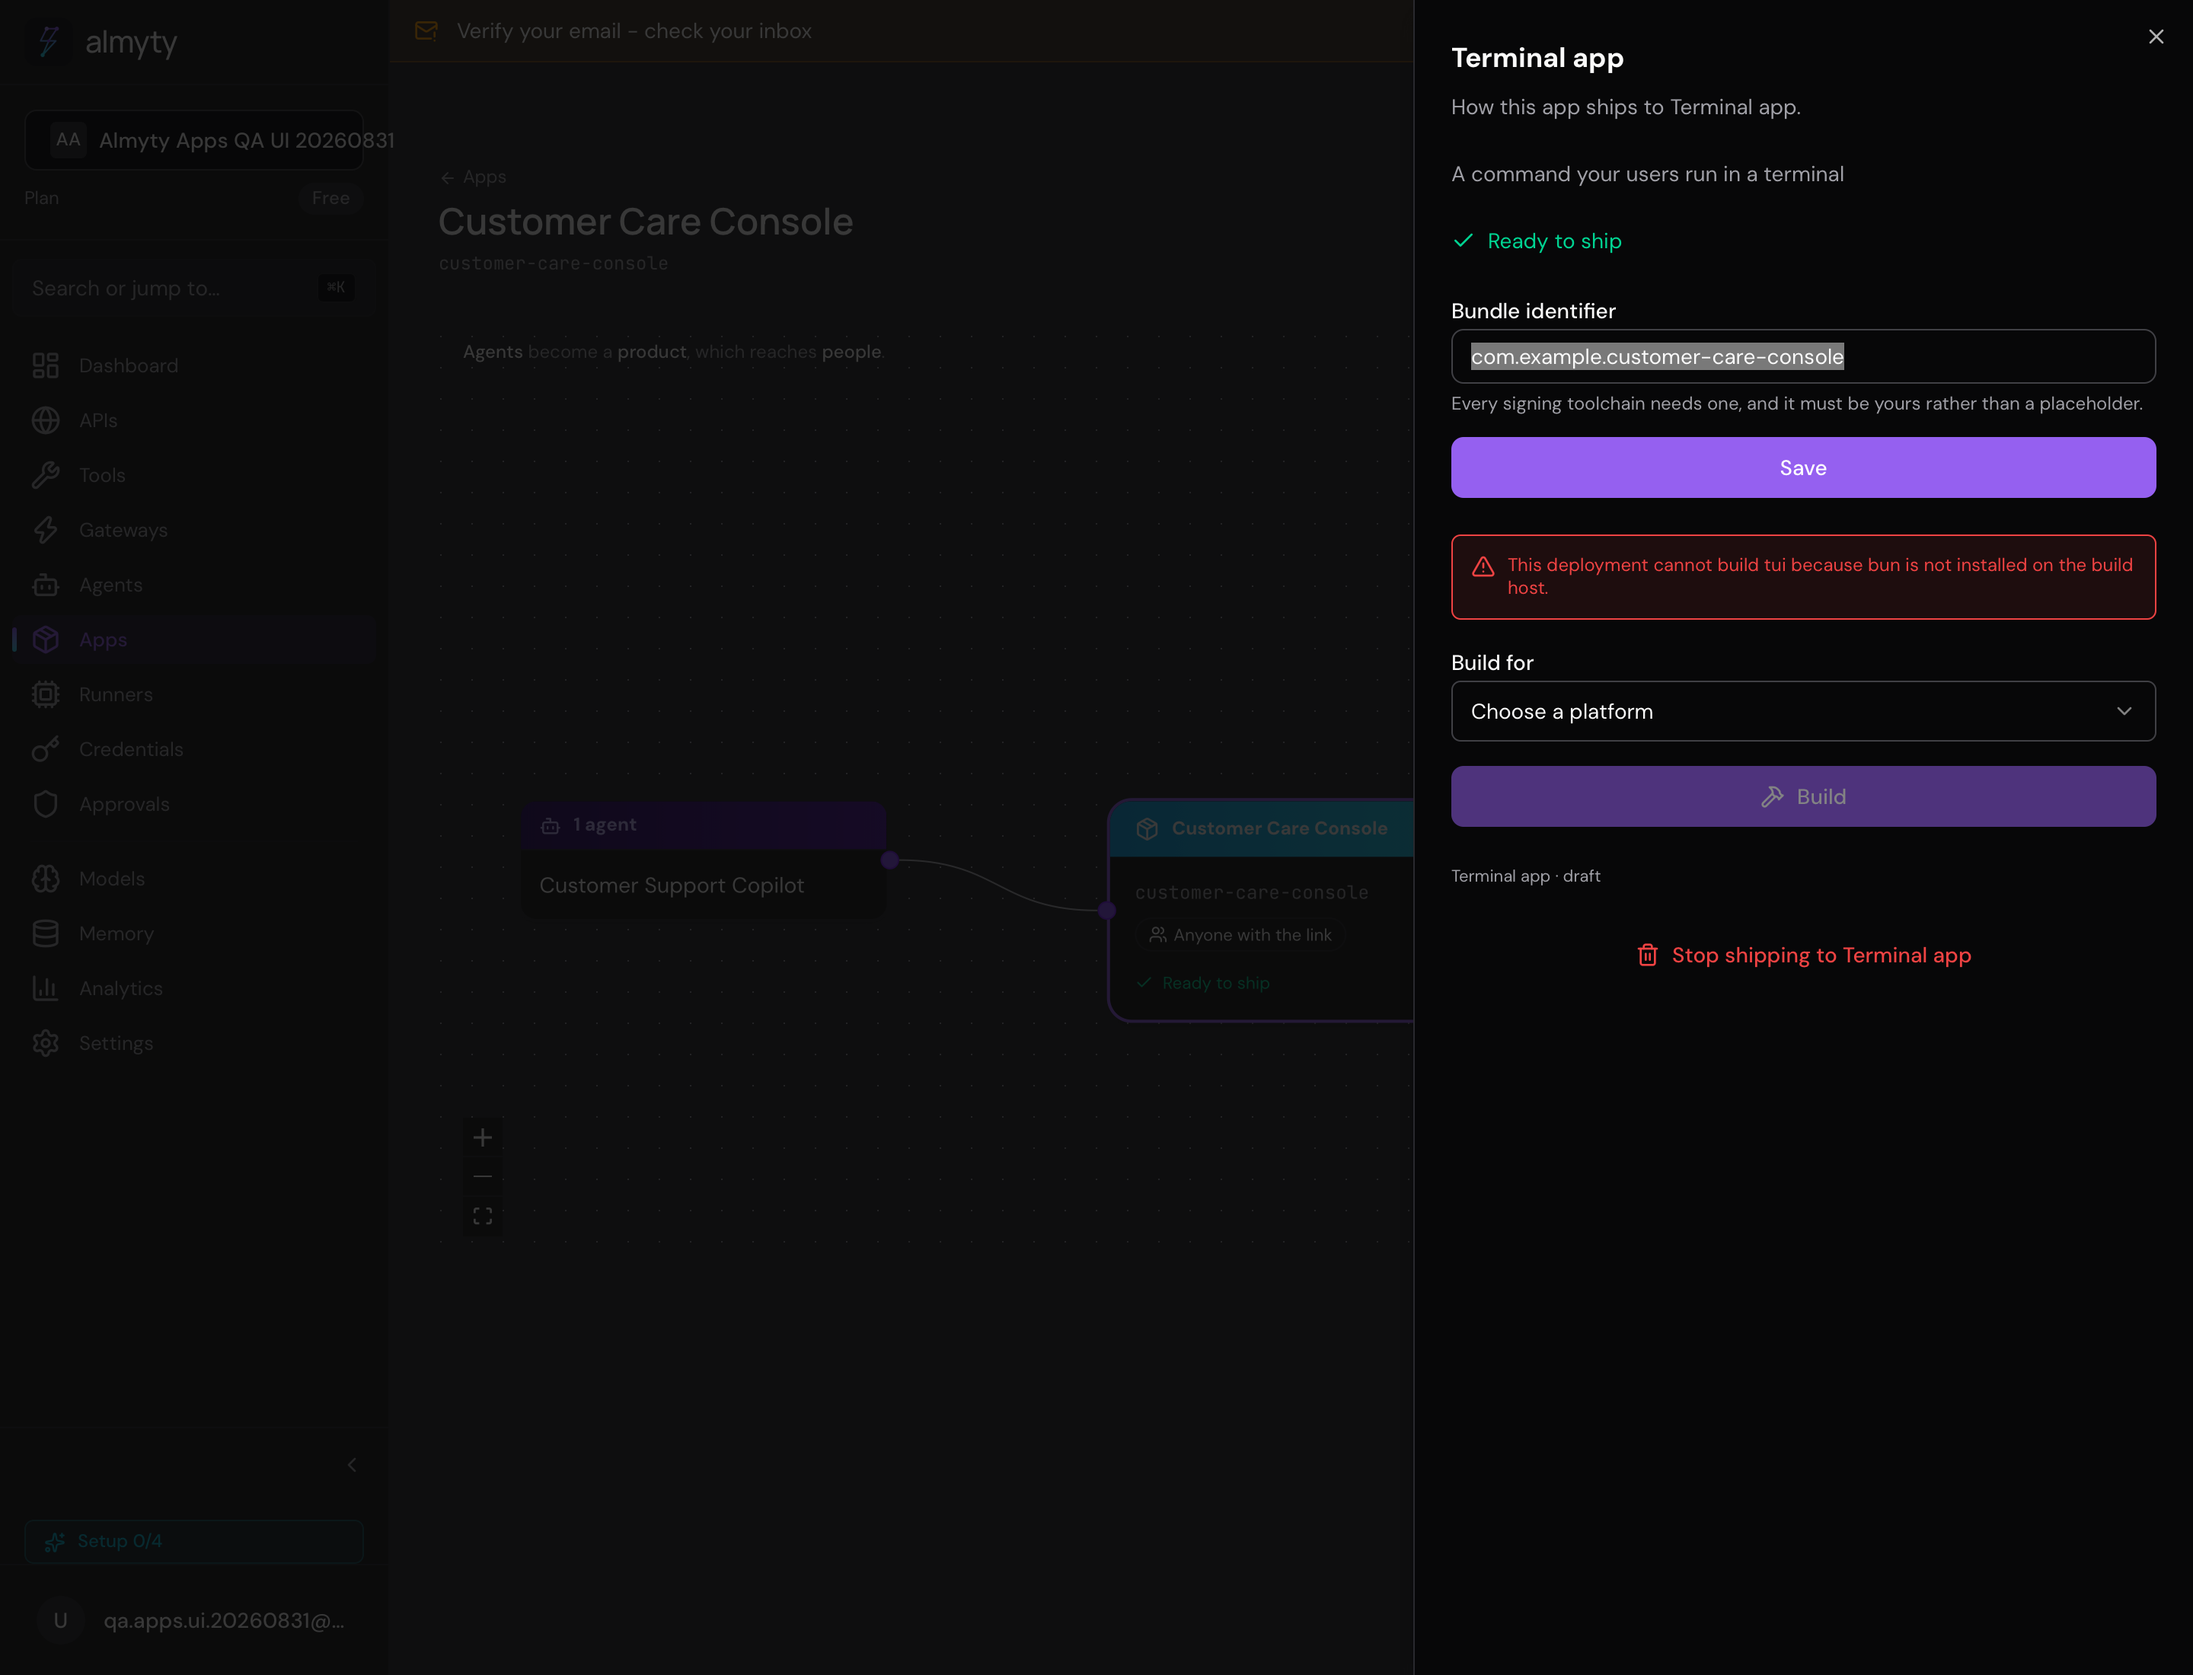
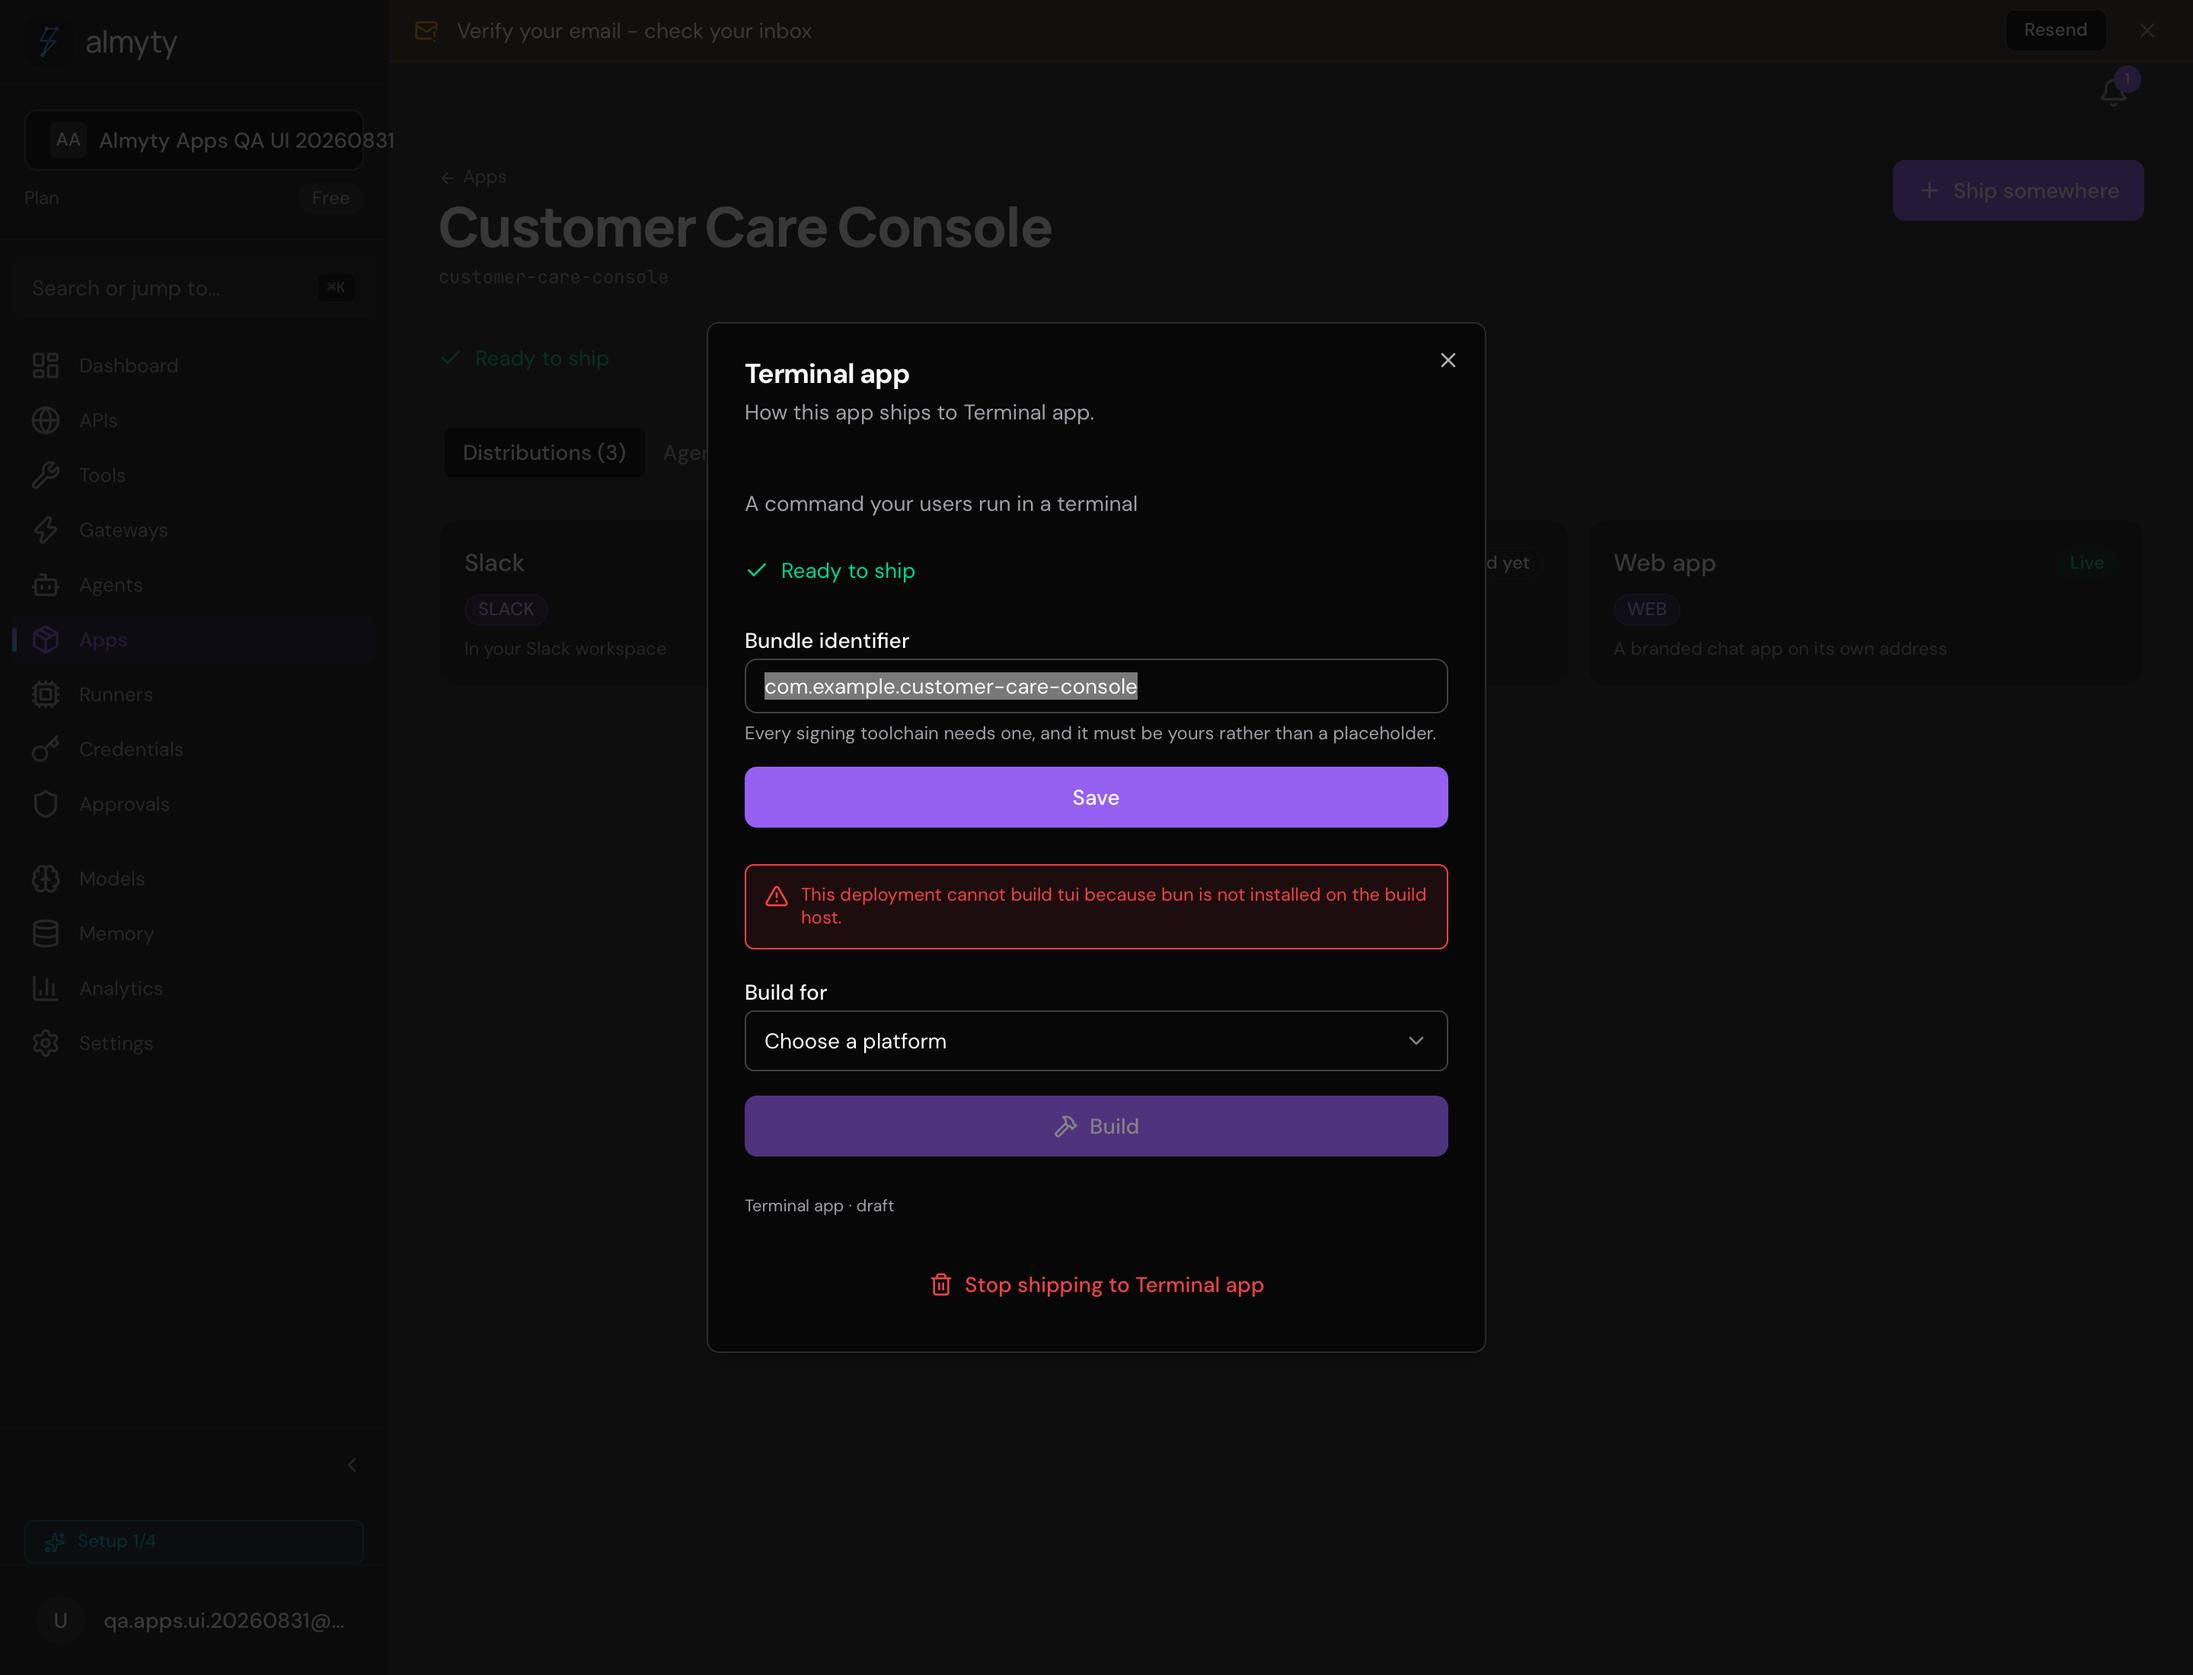
document rebuilt /apps detail page from staging QA
The canvas is gone. Screenshots and the agent-factory writeup now show
the header, tabs, cards, and dialogs, including Slack credentials
going live instead of failing silently.

diff --git a/docs/qa-reports/2026-08-31-agent-factory-ux.md b/docs/qa-reports/2026-08-31-agent-factory-ux.md
@@ -1,0 +1,53 @@
+# Agent factory UX restage QA — 2026-08-31
+
+Follow-up to `2026-08-31-agent-factory.md` after #530/#532 replaced the ReactFlow canvas with a header + Tabs + Cards + Dialogs detail page. Driven with VibeSurfer against `app.staging.almyty.com` as `qa.apps.ui.20260831@almyty.com` (org Almyty Apps QA UI 20260831, app `Customer Care Console`). Staging frontend was rolled to the already-pushed `almyty/frontend:staging` image from the in-progress #532 image build; the matching API image had not finished building, so Slack publish hit the API that was already on the cluster.
+
+## Result
+
+| Area | Result | Evidence |
+|---|---|---|
+| Apps list | Pass | One product card, "Anyone with the link", New app. |
+| App detail | Pass | Header + slug + Ship somewhere. Tabs Distributions (3) / Agents (1) / Settings. No canvas. |
+| Distribution cards | Pass | ProtocolBadge per medium (SLACK / TERMINAL / WEB). Status Badge Live (success) or Not shipped yet (outline). No emoji. |
+| Edit dialog | Pass | Clicking a card opens a centered Dialog, not a drawer. |
+| P1 Slack credentials | Pass | Dialog has Bot token + Signing secret. Save credentials, then Publish → card and dialog both show Live, button flips to Take it down. |
+| Settings tab | Pass | Branding, who can use it, cost ceiling per run, requests per user/IP. |
+| Empty state | Pass | Fresh app shows EmptyState icon + "Not shipping anywhere yet" + Ship somewhere, plus the refusals banner (needs agent, cost cap, rate limits). |
+| Terminal build | Correct refusal | "This deployment cannot build tui because bun is not installed on the build host." Build stays available to pick a platform; the host cannot compile. |
+| Hosted-chat hostname | Still blocked | Not re-tested; wildcard still routes `*.almyty.app` to dashboard sign-in. |
+| Agent Activate (P2) | Still open | Agent-detail actions-menu, out of /apps scope. |
+
+## Findings this pass
+
+### Closed — P1 channel credentials
+
+The Slack dialog now has Platform credentials (Bot token, Signing secret). Saving dummy values and publishing made the distribution Live. The previous silent fail is gone.
+
+### P2 — operator copy still says `tui`
+
+The Terminal dialog refusal reads `cannot build tui` rather than "Terminal app". The list/cards use labels; this one sentence still prints the raw target.
+
+### P2 — Slack dialog said Ready to ship with empty credential fields
+
+Before anything was typed, the Slack dialog showed a green Ready to ship. The stored configuration had no credentials. The check is not reflecting missing required credentials in the form. Publishing after filling them worked; the pre-fill status was wrong.
+
+### Note — #532 API image still building
+
+Frontend was rolled manually from the already-pushed tag so this pass could run. The staging-api pods were still the 09:42 image. Slack publish succeeded against that API once the new frontend sent credentials. When the #532 API image lands, a second frontend+API restart is expected.
+
+## Screenshots
+
+Dropped into `docs-site/public/screenshots/`:
+
+| File | Shows |
+|---|---|
+| `apps-list.png` | Apps list |
+| `apps-canvas.png` / `apps-detail.png` | Detail page, Distributions tab, Slack+Web Live |
+| `apps-empty.png` | Fresh app empty state |
+| `apps-agents.png` | Agents tab |
+| `apps-settings.png` | Settings tab with cost cap + rate limits |
+| `apps-slack-credentials.png` | Slack dialog credential fields |
+| `apps-slack-live.png` | Slack published, Take it down |
+| `apps-build-capabilities.png` | Terminal bun refusal |
+
+`docs/agent-factory.md` canvas paragraph replaced with the detail-page description.

diff --git a/docs/agent-factory.md b/docs/agent-factory.md
@@ -27,9 +27,13 @@ That is the part nobody else ships, so it is the part this subsystem is built ar
 
 The separation is load-bearing. One agent appears in an internal app and a customer-facing one at the same time, under different names, different auth and different limits, without being duplicated.
 
-The canvas makes that relationship explicit: agents feed one product, and the product fans out to each distribution independently.
+An app is a normal detail page: a header, three tabs (Distributions, Agents, Settings), and a card per place the product ships. Each card carries a ProtocolBadge for the medium and a status badge (Live, Building, Not shipped yet). Clicking a card opens a centered dialog — not a canvas, not a drawer.
 
-![An app canvas connecting one agent to web, terminal, and Slack distributions](../docs-site/public/screenshots/apps-canvas.png)
+![An app detail page with Slack, Terminal, and Web distributions as cards](../docs-site/public/screenshots/apps-canvas.png)
+
+A product with no distributions yet shows an EmptyState on the Distributions tab, with the same Ship somewhere action as the header.
+
+![Empty app detail: not shipping anywhere yet](../docs-site/public/screenshots/apps-empty.png)
 
 Entities: `agent-app.entity.ts`, `agent-app-distribution.entity.ts`, `app-build.entity.ts`.
 
@@ -56,6 +60,12 @@ Publishing is idempotent: doing it twice re-syncs the existing gateway rather th
 
 Publishing refuses two things that would otherwise produce a surface that is live and useless. A platform whose credentials are absent (`REQUIRED_CREDENTIALS`, read off what each adapter actually uses, never invented) and a workflow agent behind a chat surface, which the runtime turns away at the first message with "not in autonomous mode".
 
+Channel distributions take those credentials on the distribution itself — Bot token and Signing secret for Slack — rather than sending the operator to Gateways. Publishing with them filled goes live.
+
+![Slack distribution dialog with platform credential fields](../docs-site/public/screenshots/apps-slack-credentials.png)
+
+![Slack published and live, with Take it down instead of a silent fail](../docs-site/public/screenshots/apps-slack-live.png)
+
 For the hosted chat, publish writes the `hostedChat` block it is looked up by. Without it a published web app is a gateway `findBySlug` cannot see, which is what happened before.
 
 ![The web distribution after a successful publish](../docs-site/public/screenshots/apps-web-published.png)
@@ -77,6 +87,10 @@ Unpublishing **deactivates** the gateway rather than deleting it. Republishing k
 An unset auth mode reads as open, not as unset. The permissive reading of missing configuration is the one that gets someone billed.
 
 The first two are satisfied from the app's own `limits` column: a cost ceiling per run in cents, and per-user and per-IP request ceilings. Cents rather than currency because a ceiling in floating point is a rounding argument later; per-IP separately from per-user because a hosted chat visitor has no account.
+
+Those inputs live on the Settings tab, next to branding and who may use the product.
+
+![App Settings tab with cost ceiling and per-user / per-IP rate limits](../docs-site/public/screenshots/apps-settings.png)
 
 A limit left empty is stored as null, not as zero. Zero would read as "no requests allowed" rather than "unset", and the rules treat both as unprotected — but only one of them is what the operator meant.
 
